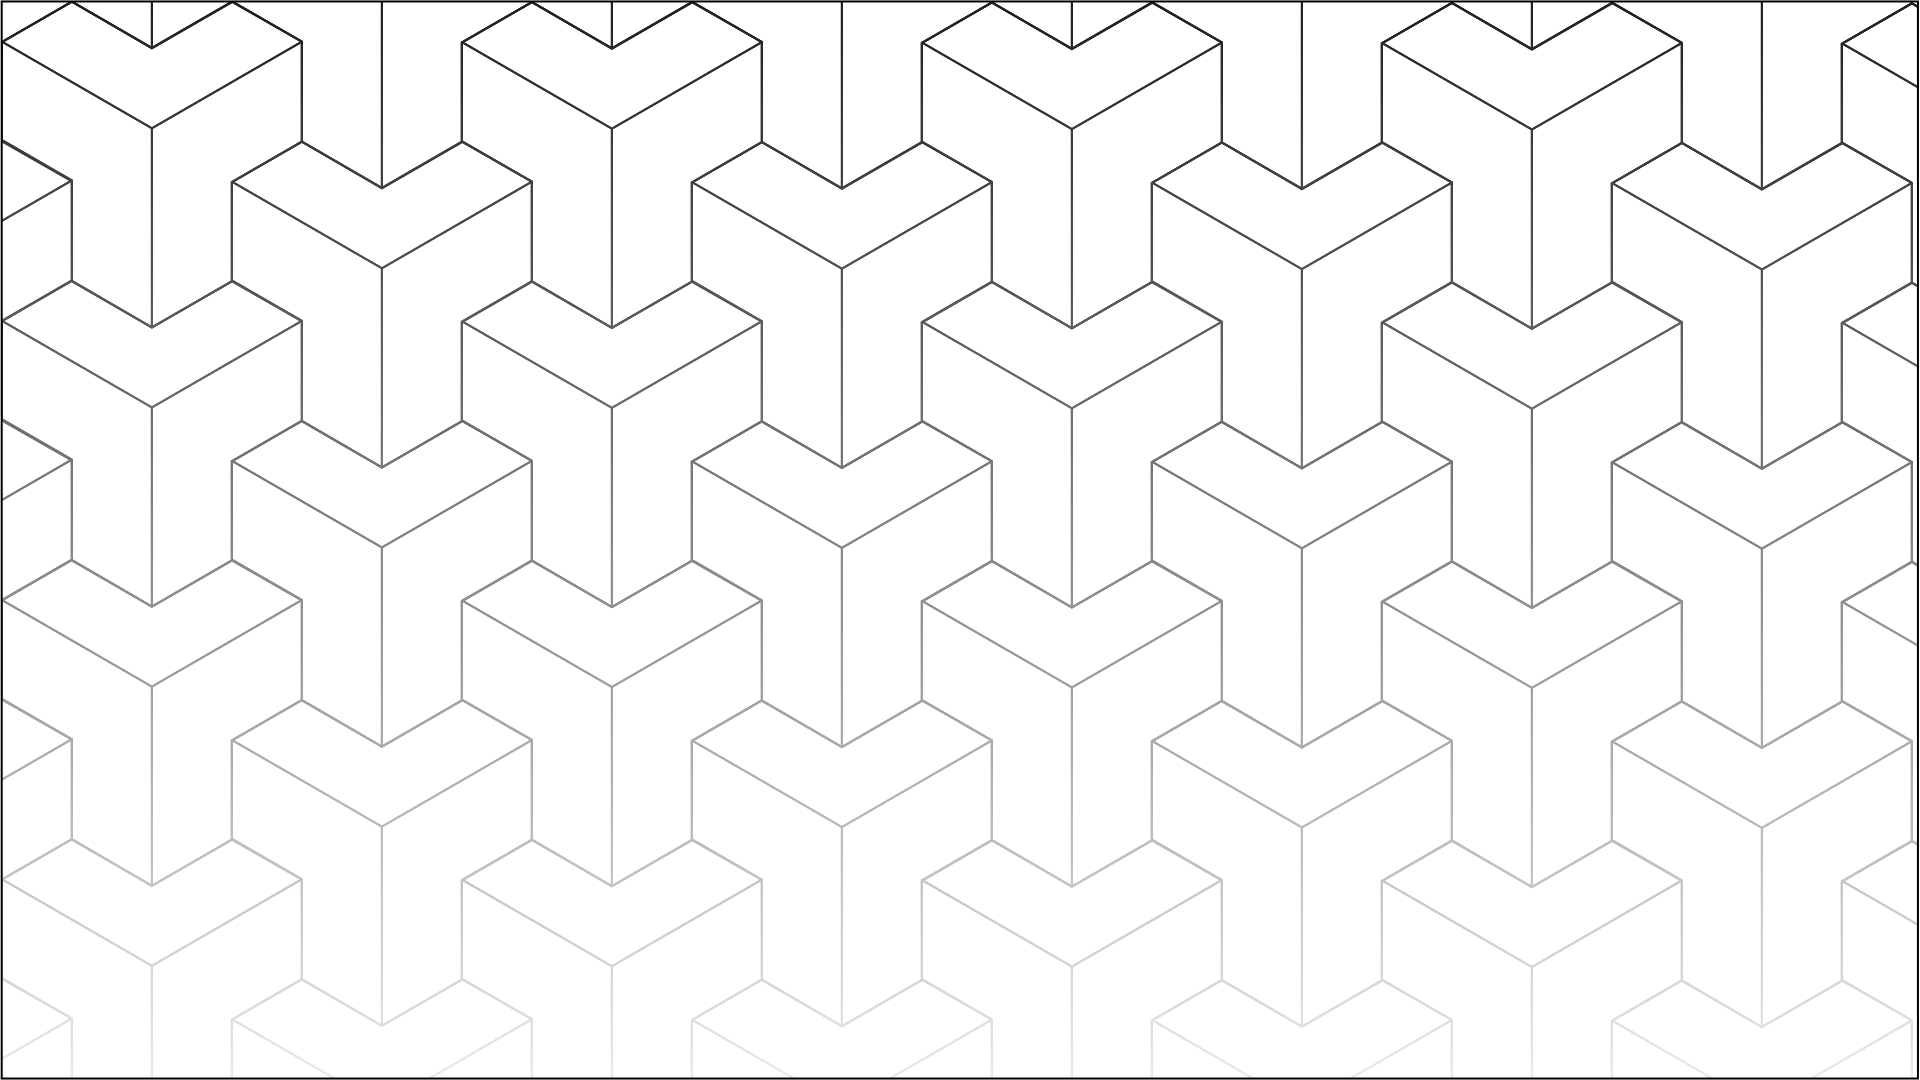
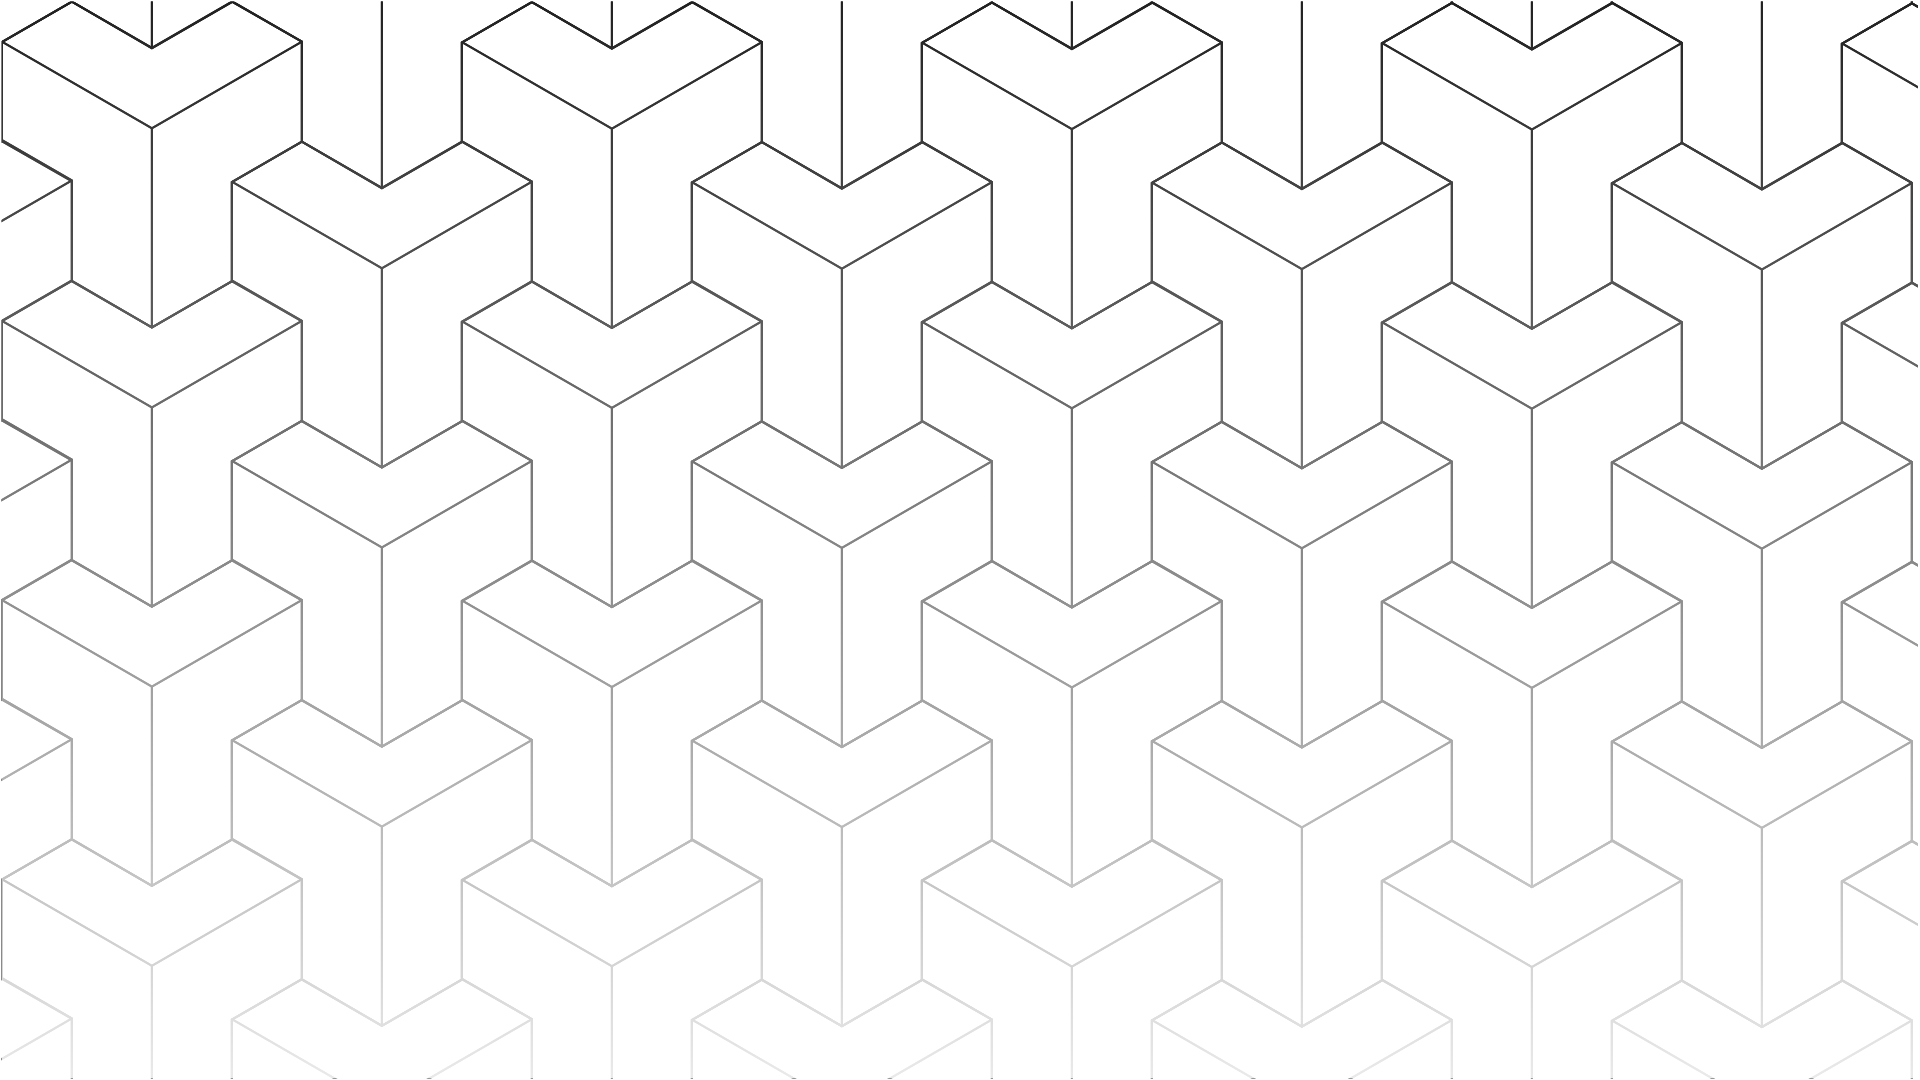
Feat : General design complete with background imahe in place.

Changed region(s): [[0.0, 0.9778, 1.0, 1.0], [0.9688, 0.0, 1.0, 0.0306], [0.0, 0.0, 0.0312, 0.0306]]

diff --git a/components/navsection.js b/components/navsection.js
@@ -1,3 +1,4 @@
+import Image from 'next/image'
 import styles from './navsection.module.css'
 import Sidebar from './sidebar'
 
@@ -5,7 +6,9 @@ export default function NavSection({children}){
     return (
         <div className={styles.container}>
             <div className={styles.contentArea}>
-                {children}
+                <main>
+                    {children}
+                </main>
             </div>
             <div className={styles.sideBar}>
                 <Sidebar/>

diff --git a/components/layout.js b/components/layout.js
@@ -19,11 +19,11 @@ export default function Layout({children}){
                     Contribute
                 </h2>
             </div>
-            <main>
+            <div>
                 <NavSection>
                     {children}
                 </NavSection>
-            </main>
+            </div>
         </div>
     )
 

diff --git a/components/layout.module.css b/components/layout.module.css
@@ -6,6 +6,7 @@
     /*justify-content: center;*/
     align-items: center;
     border-bottom: 1px solid black;
+    background-color: white;
 }
 .logo{
     margin-right: auto;

diff --git a/styles/globals.css b/styles/globals.css
@@ -9,6 +9,9 @@ html,
 body {
   padding: 0;
   margin: 0;
+  overflow-x: hidden;
+  background-image: url("../public/background.png");
+  background-repeat: no-repeat;
 
 }
 

diff --git a/components/navsection.module.css b/components/navsection.module.css
@@ -7,6 +7,7 @@
     width: 20vw;
     height: inherit;
     border-left: 1px solid black;
+    background-color: white;
 }
 .contentArea{
     width: 80vw;
